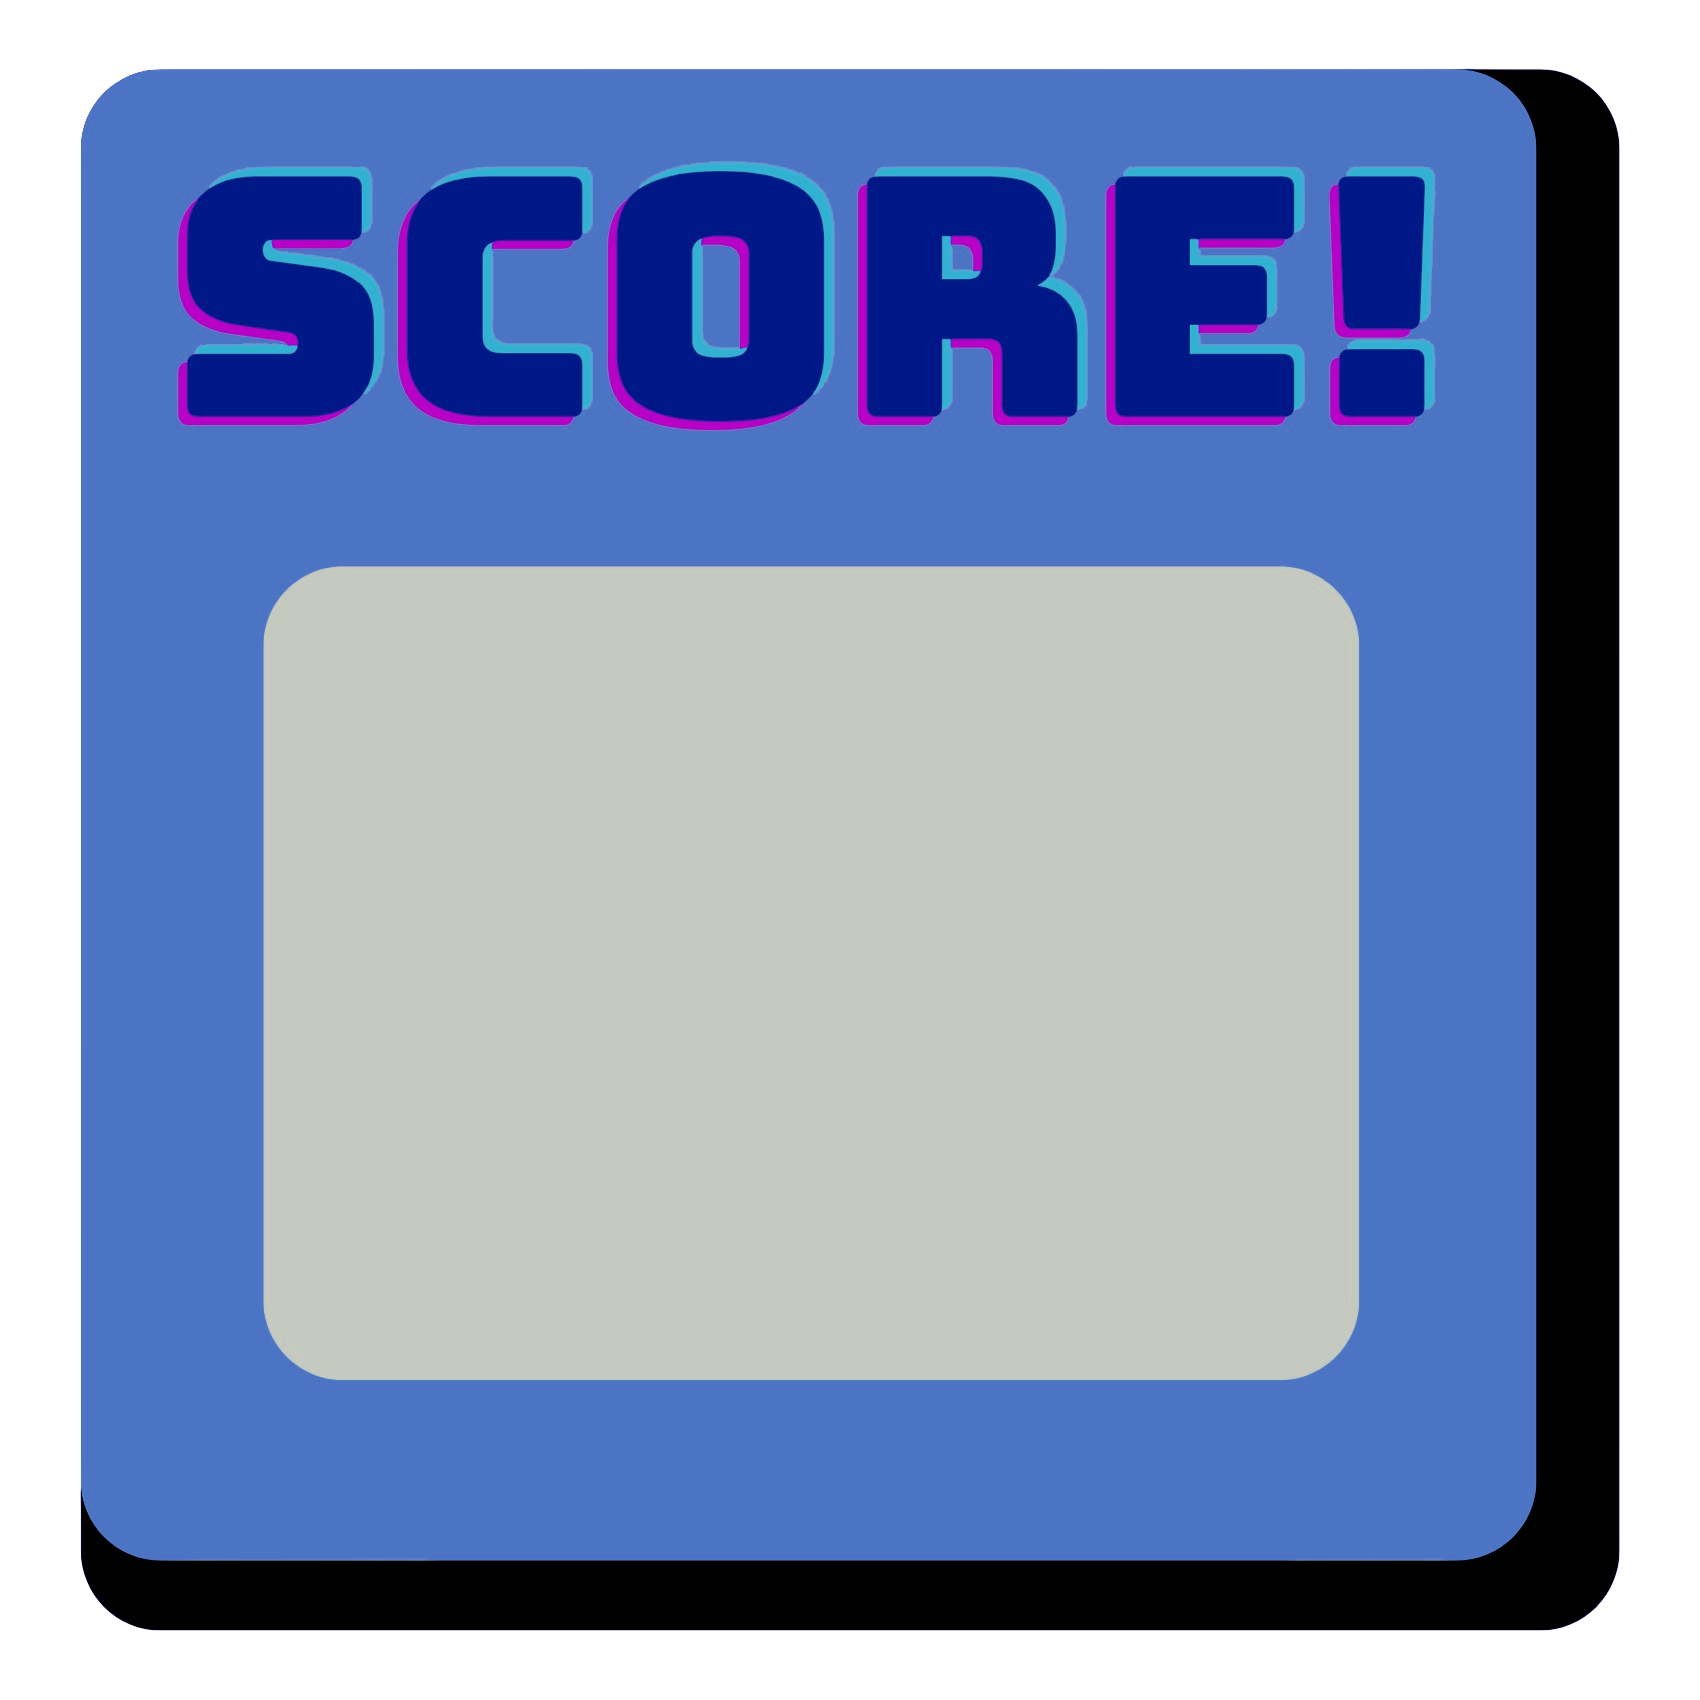
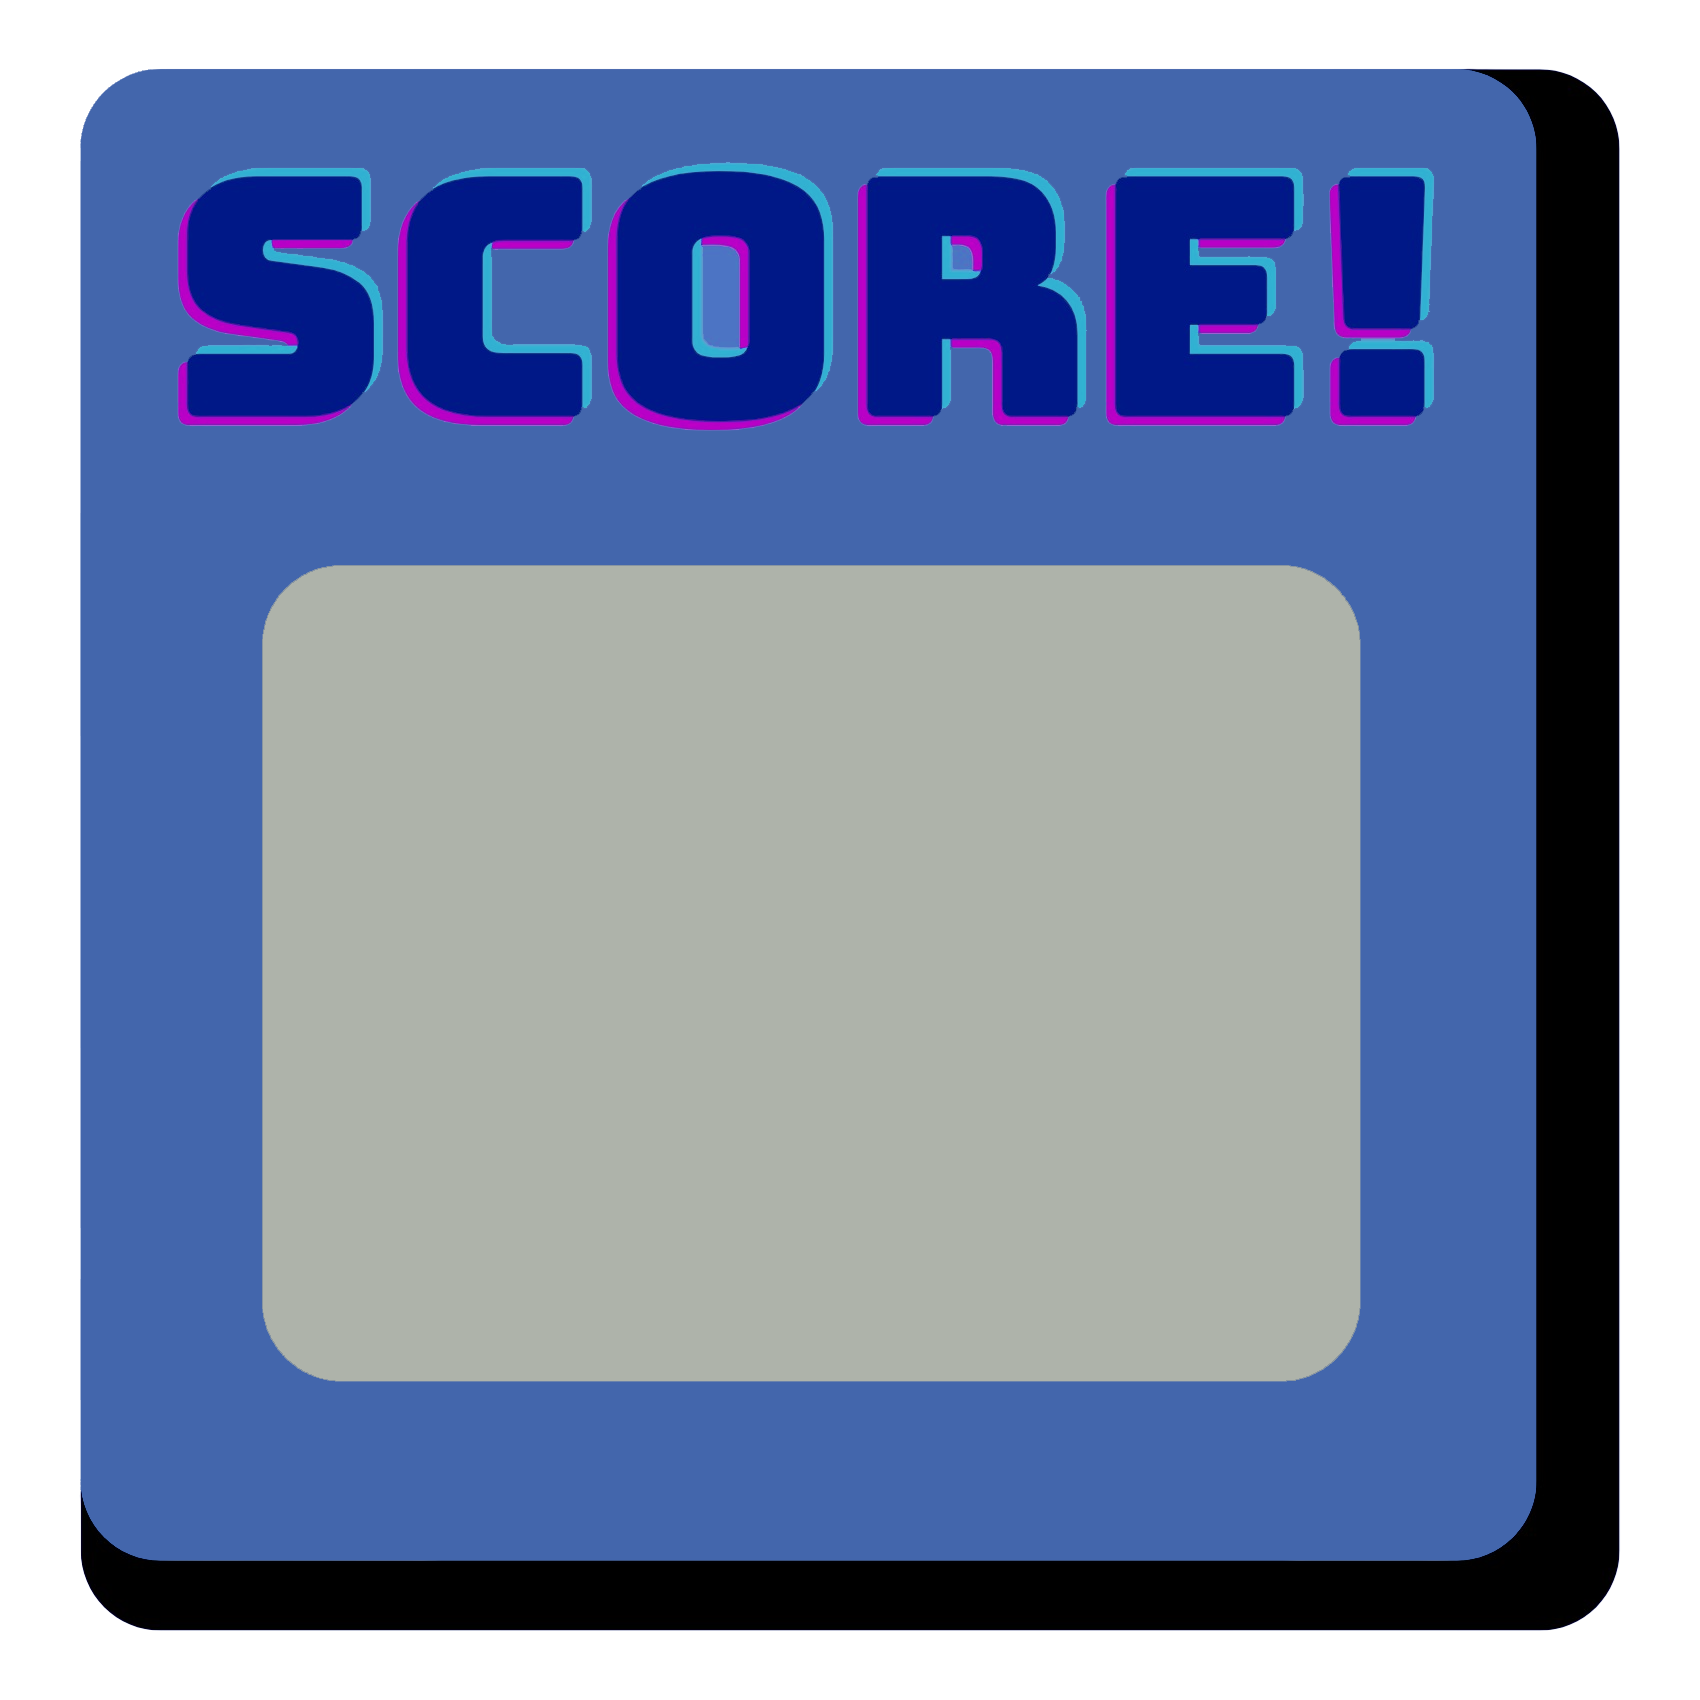
scoreboard changes

diff --git a/damath/scoreboard.py b/damath/scoreboard.py
@@ -1,5 +1,5 @@
 from .constants import LIGHT_BLUE, RED, WHITE, BLACK, DARKER_BLUE, DARKER_RED, SCOREBOARD_WIDTH, SCOREBOARD_HEIGHT, \
-    SCOREBOARD_BLUE, SCOREBOARD_RED, SCOREBOARD_COLOR, SCOREBOARD_ALPHA
+    SCOREBOARD_BLUE, SCOREBOARD_RED, SCOREBOARD_COLOR, SCOREBOARD_ALPHA, SCOREBOARD_BLUE_ACTIVE, SCOREBOARD_RED_ACTIVE
 import pygame, operator
 from ui_class.fade import fade
 
@@ -33,7 +33,7 @@ class Scoreboard:
             blue_box = pygame.Rect((10, self.height//2+30, self.width-20, self.height//2-20))  
 
             self.surface.blit(SCOREBOARD_BLUE, (0, 0))
-            self.surface.blit(SCOREBOARD_RED, (0, 251))
+            self.surface.blit(SCOREBOARD_RED_ACTIVE, (0, 251))
 
             p1_score_surface = font.render(str(round(self.player1_score, 2)), True, RED) #FFFFFF
             p1_score_rect = p1_score_surface.get_rect(center=blue_box.center)
@@ -47,7 +47,7 @@ class Scoreboard:
             blue_box = pygame.Rect((10, self.height//2+30, self.width-20, self.height//2-20))
             red_box = pygame.Rect((10, 10+self.TXT_OFFSET, self.width-20, self.height//2-10))  
 
-            self.surface.blit(SCOREBOARD_BLUE, (0, 0))
+            self.surface.blit(SCOREBOARD_BLUE_ACTIVE, (0, 0))
             self.surface.blit(SCOREBOARD_RED, (0, 251))
 
             p2_score_surface = font.render(str(round(self.player2_score, 2)), True, LIGHT_BLUE) #FFFFFF

diff --git a/damath/constants.py b/damath/constants.py
@@ -11,6 +11,8 @@ SCOREBOARD_ALPHA = 180
 
 SCOREBOARD_RED = pygame.transform.smoothscale(pygame.image.load('assets\SCOREBOARD_RED.png'), (250, 250))
 SCOREBOARD_BLUE = pygame.transform.smoothscale(pygame.image.load('assets\SCOREBOARD_BLUE.png'), (250, 250))
+SCOREBOARD_RED_ACTIVE = pygame.transform.smoothscale(pygame.image.load('assets\SCOREBOARD_RED_ACTIVE.png'), (250, 250))
+SCOREBOARD_BLUE_ACTIVE = pygame.transform.smoothscale(pygame.image.load('assets\SCOREBOARD_BLUE_ACTIVE.png'), (250, 250))
 
 ROWS, COLS = 8, 8
 SQUARE_SIZE = BOARD_WIDTH//COLS
